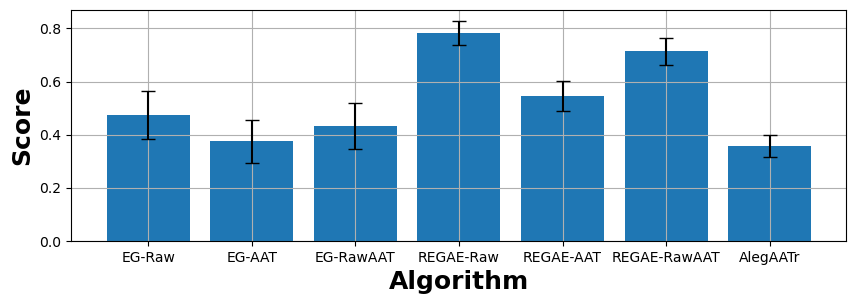
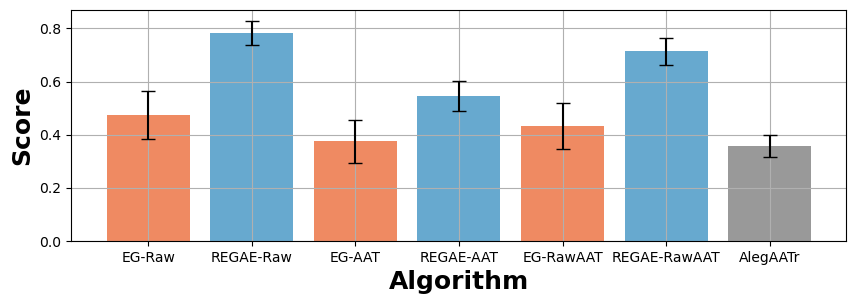
Save adaptability results for offline analysis (ex: anova)

diff --git a/simulations/adaptability_scores.py b/simulations/adaptability_scores.py
@@ -118,8 +118,10 @@ for run_num in range(N_TRAIN_TEST_RUNS):
         results_from_every_epoch[agent]['a'] = results_from_every_epoch[agent].get('a', []) + [adapt_score]
 
 
-alg_names = ['DQN', 'RAlegAATr', 'AleqgAATr', 'RawO', 'RAAT', 'QAlegAATr', 'AlegAATr']
-alg_plot_names = ['EG-Raw', 'EG-AAT', 'EG-RawAAT', 'REGAE-Raw', 'REGAE-AAT', 'REGAE-RawAAT', 'AlegAATr']
+alg_names = ['DQN', 'RawO', 'RAlegAATr', 'RAAT', 'AleqgAATr', 'QAlegAATr', 'AlegAATr']
+alg_plot_names = ['EG-Raw', 'REGAE-Raw', 'EG-AAT', 'REGAE-AAT', 'EG-RawAAT', 'REGAE-RawAAT', 'AlegAATr']
+colors = ['#ef8a62', '#67a9cf', '#ef8a62', '#67a9cf', '#ef8a62', '#67a9cf', '#999999']
+a_scores, learning_algs, features = [], [], []
 for cond in ['d', 'c', 'a']:
     avgs, ses = [], []
     for alg in alg_names:
@@ -127,11 +129,25 @@ for cond in ['d', 'c', 'a']:
         avgs.append(np.mean(alg_data))
         ses.append(np.std(alg_data, ddof=1) / np.sqrt(len(alg_data)))
 
+        if cond == 'a' and alg != 'AlegAATr':
+            a_scores.extend(alg_data)
+            name = alg_plot_names[alg_names.index(alg)]
+            learning_alg = name.split('-')[0]
+            feature_set = name.split('-')[1]
+            learning_algs.extend([learning_alg] * len(alg_data))
+            features.extend([feature_set] * len(alg_data))
+
     plt.figure(figsize=(10, 3))
     plt.grid()
-    plt.bar(alg_plot_names, avgs, yerr=ses, capsize=5)
+    plt.bar(alg_plot_names, avgs, yerr=ses, capsize=5, color=colors)
     plt.xlabel('Algorithm', fontsize=18, fontweight='bold')
     plt.ylabel('Score', fontsize=18, fontweight='bold')
     plt.savefig(f'../simulations/{cond}.png', bbox_inches='tight')
     plt.clf()
 
+df = pd.DataFrame({
+    'adaptability': a_scores,
+    'learning_alg': learning_algs,
+    'feature_set': features
+})
+df.to_csv('./pursuit_adaptability_results.csv', index=False)
